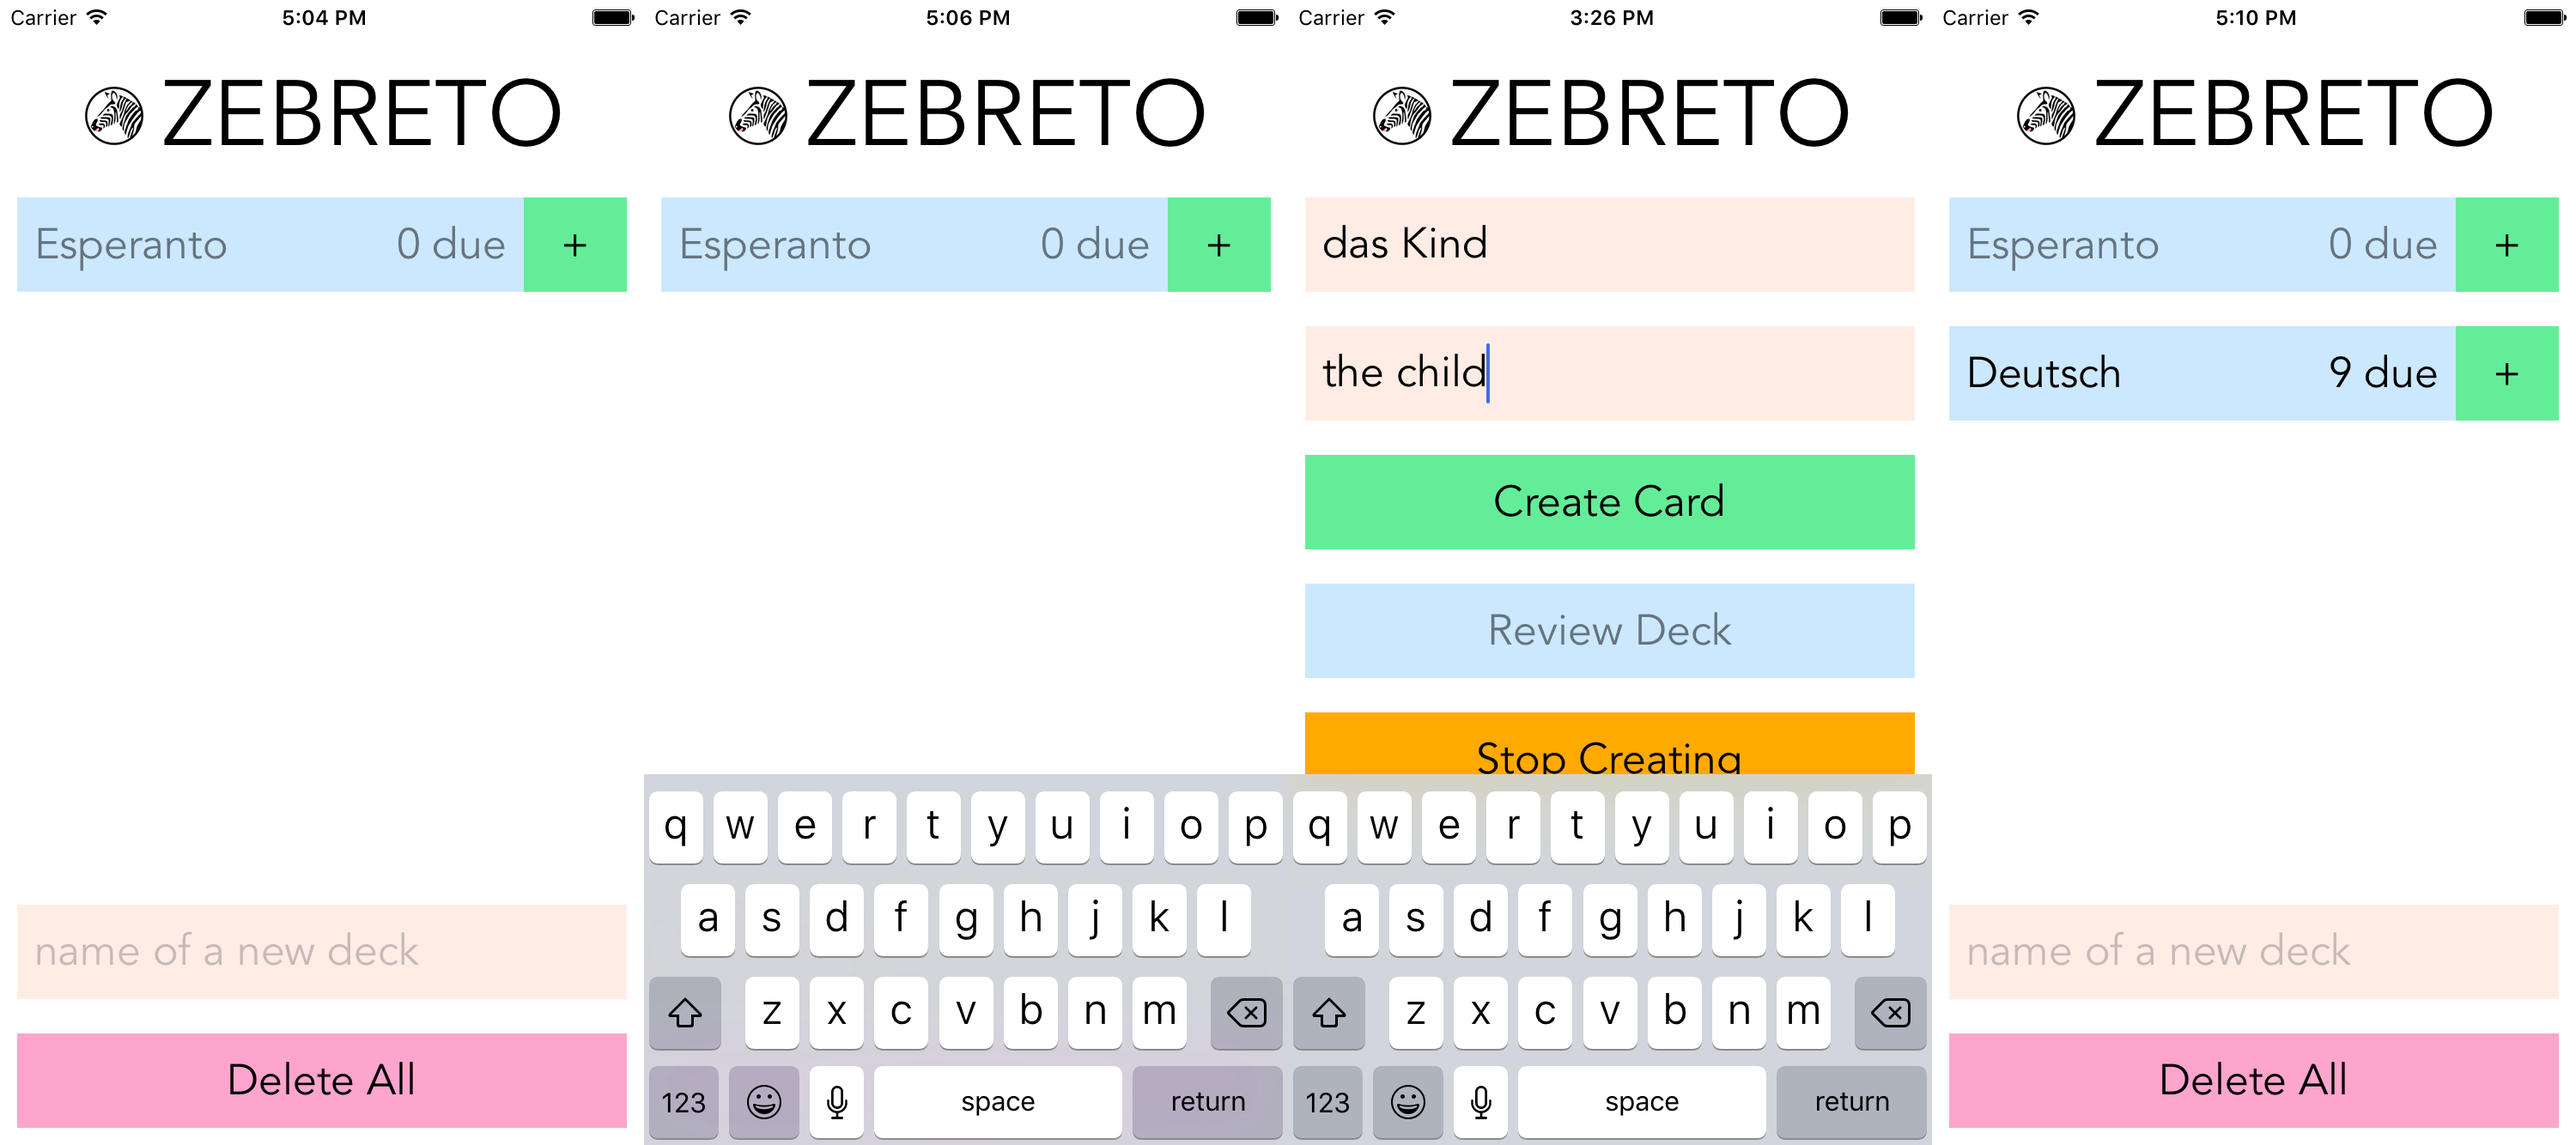
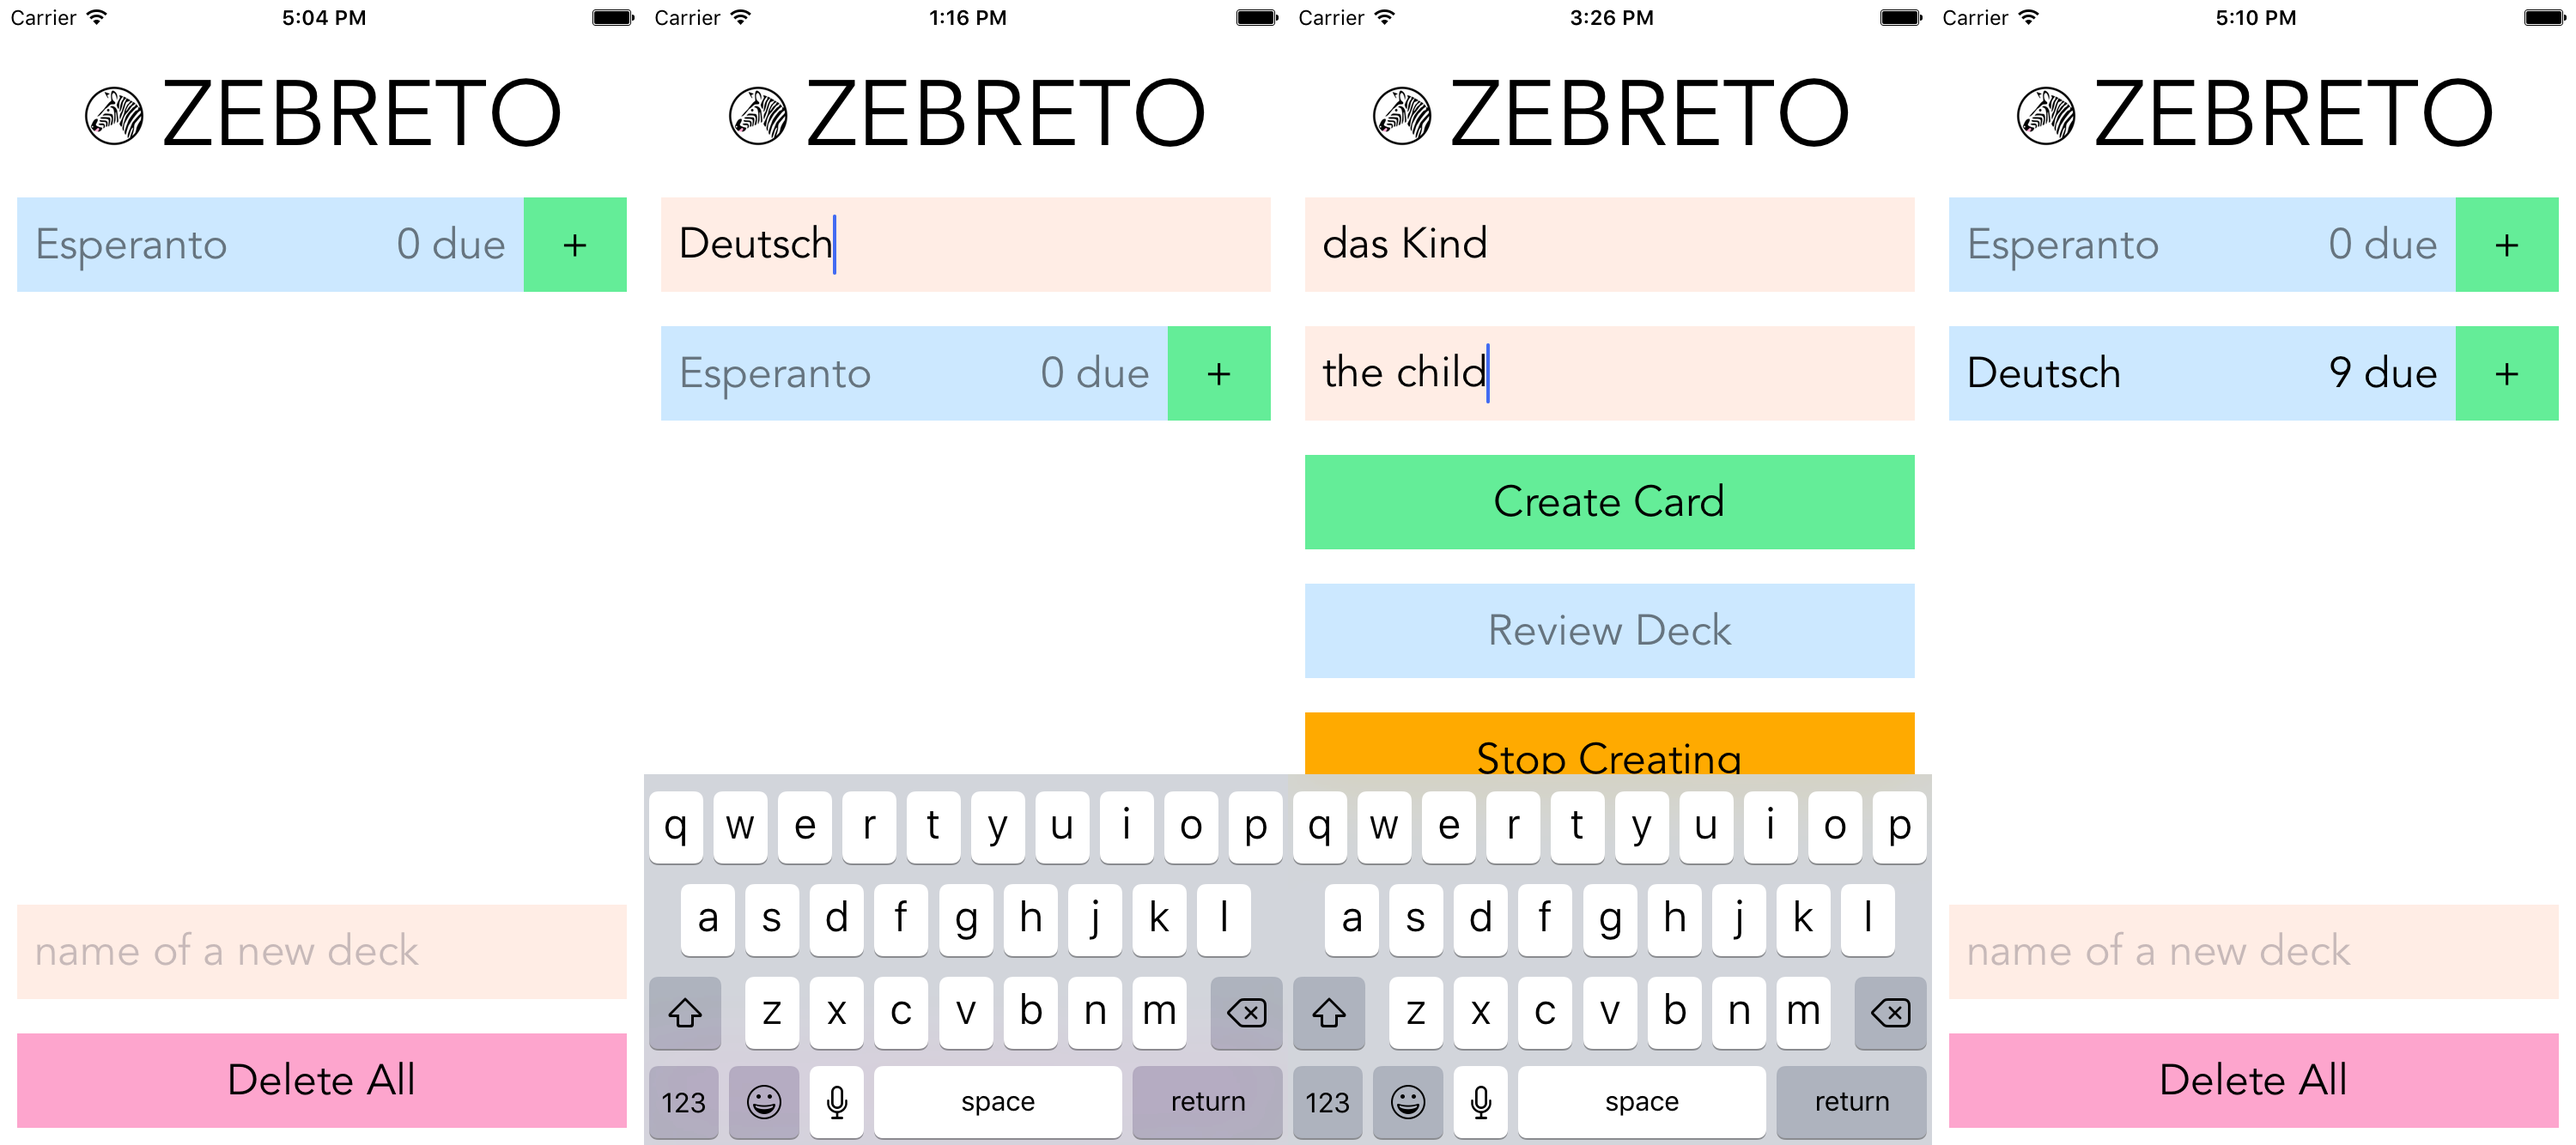
Zebreto: render DeckCreation at the top when it has focus

Changed region(s): [[0.248, 0.1537, 0.496, 0.3688], [0.372, 0.0, 0.403, 0.0307]]

diff --git a/Zebreto/src/components/Decks/index.js b/Zebreto/src/components/Decks/index.js
@@ -1,4 +1,4 @@
-import React, { PropTypes } from 'react';
+import React, { Component, PropTypes } from 'react';
 import {
   View,
 } from 'react-native';
@@ -26,28 +26,65 @@ import colors from './../../styles/colors';
 import layout from './../../styles/layout';
 
 // The route scene component to start activities with decks.
-const Decks = ({ createCards, createDeck, decks, deleteAll, nCardsDue, reviewDeck, status }) => (
-  <View style={layout.scene}>
-    <DeckList createCards={createCards} decks={decks} nCardsDue={nCardsDue} reviewDeck={reviewDeck}/>
-    <DeckCreation createDeck={createDeck} status={status}/>
-    <Button style={colors.delete} onPress={deleteAll} disabled={decks.length === 0}>
-      <InterfaceText>Delete All</InterfaceText>
-    </Button>
-  </View>
-);
+class Decks extends Component {
+  static displayName = 'Decks';
+  static propTypes = {
+    createCards: PropTypes.func.isRequired,
+    createDeck: PropTypes.func.isRequired,
+    decks: PropTypes.arrayOf(PropTypes.shape({
+      id: PropTypes.string.isRequired,
+    })).isRequired,
+    deleteAll: PropTypes.func.isRequired,
+    nCardsDue: PropTypes.func.isRequired,
+    reviewDeck: PropTypes.func.isRequired,
+    status: PropTypes.string.isRequired,
+  };
 
-Decks.displayName = 'Decks';
-Decks.propTypes = {
-  createCards: PropTypes.func.isRequired,
-  createDeck: PropTypes.func.isRequired,
-  decks: PropTypes.arrayOf(PropTypes.shape({
-    id: PropTypes.string.isRequired,
-  })).isRequired,
-  deleteAll: PropTypes.func.isRequired,
-  nCardsDue: PropTypes.func.isRequired,
-  reviewDeck: PropTypes.func.isRequired,
-  status: PropTypes.string.isRequired,
-};
+  constructor(props) {
+    super(props);
+    this.state = {
+      focusInCreation: false,
+    };
+  }
+
+  _onBlurCreation = () => {
+    this.setState({
+      focusInCreation: false,
+    });
+  }
+
+  _onFocusCreation = () => {
+    this.setState({
+      focusInCreation: true,
+    });
+  }
+
+  render() {
+    const { createCards, createDeck, decks, deleteAll, nCardsDue, reviewDeck, status } = this.props;
+    const { focusInCreation } = this.state;
+
+    // The key prop is necessary for the component to keep focus
+    // when it is rendered at the top of the screen
+    // so the keyboard does not cover the name that a person is tapping.
+    const deckCreation = (<DeckCreation key='DeckCreation'
+      createDeck={createDeck}
+      status={status}
+      onBlur={this._onBlurCreation}
+      onFocus={this._onFocusCreation}
+    />);
+
+    return (
+      <View style={layout.scene}>
+        { focusInCreation && deckCreation }
+        <DeckList createCards={createCards} decks={decks} nCardsDue={nCardsDue} reviewDeck={reviewDeck}/>
+        { !focusInCreation && deckCreation }
+        <Button style={colors.delete} onPress={deleteAll} disabled={decks.length === 0}>
+          <InterfaceText>Delete All</InterfaceText>
+        </Button>
+      </View>
+    );
+  }
+}
 
 // A container component subscribes to relevant parts of state in the Redux store.
 const mapStateToProps = ({ cards, decks, status }) => ({

diff --git a/Zebreto/src/components/Input.js b/Zebreto/src/components/Input.js
@@ -13,8 +13,10 @@ export default class Input extends Component {
   static displayName = 'Input';
   static propTypes = {
     clearOnSubmit: PropTypes.bool,
+    onBlur: PropTypes.func,
     onChange: PropTypes.func,
     onEntry: PropTypes.func.isRequired,
+    onFocus: PropTypes.func,
     placeholder: PropTypes.string,
     refInput: PropTypes.func,
     style: View.propTypes.style,
@@ -63,7 +65,9 @@ export default class Input extends Component {
         autoCapitalize='none'
         autoCorrect={false}
         multiline={false}
+        onBlur={this.props.onBlur}
         onChangeText={this._onChange}
+        onFocus={this.props.onFocus}
         onSubmitEditing={this._onSubmit}
         placeholder={this.props.placeholder}
         ref={this._refInput}

diff --git a/Zebreto/src/components/Decks/DeckCreation.js b/Zebreto/src/components/Decks/DeckCreation.js
@@ -11,6 +11,8 @@ export default class DeckCreation extends Component {
   static displayName = 'DeckCreation';
   static propTypes = {
     createDeck: PropTypes.func.isRequired,
+    onBlur: PropTypes.func.isRequired,
+    onFocus: PropTypes.func.isRequired,
     status: PropTypes.string.isRequired,
   };
 
@@ -40,7 +42,7 @@ export default class DeckCreation extends Component {
           </MessageButton>
         )
       : (
-          <Input placeholder='name of a new deck' onEntry={this._onEntry}/>
+          <Input placeholder='name of a new deck' onEntry={this._onEntry} onBlur={this.props.onBlur} onFocus={this.props.onFocus}/>
         );
   }
 }

diff --git a/Zebreto/README.md b/Zebreto/README.md
@@ -22,12 +22,13 @@ Zebreto has screens for decks, card creation, and card review:
 
 ### Creating a new deck and cards
 
-1. On the decks screen, tap the tan input box that displays **name of a new deck** as a placeholder, enter a deck name, and then tap **return**. The keyboard covers the tan input box while you are tapping the name :(
-2. On the card creation screen, tap the first tan input box that displays **front of a new card** as a placeholder, enter the front, and then tap **return**.
-3. Tap the second tan input box that displays **back of a new card** as a placeholder, enter the back, and then tap **return**.
-4. Tap **Create Card**.
-5. Do one of the following:
-    * To create another card, go to step 2.
+1. On the decks screen, tap the tan input box that displays **name of a new deck** as a placeholder, enter a deck name. The box moves to the top of the screen so the keyboard does not cover the name.
+2. When you have entered the name, tap **return**.
+3. On the card creation screen, tap the first tan input box that displays **front of a new card** as a placeholder, enter the front, and then tap **return**.
+4. Tap the second tan input box that displays **back of a new card** as a placeholder, enter the back, and then tap **return**.
+5. Tap **Create Card**.
+6. Do one of the following:
+    * To create another card, go to step 3.
     * To review the new cards, tap **Review Deck**.
     * To return to the decks screen, tap **Stop Creating**.
 
